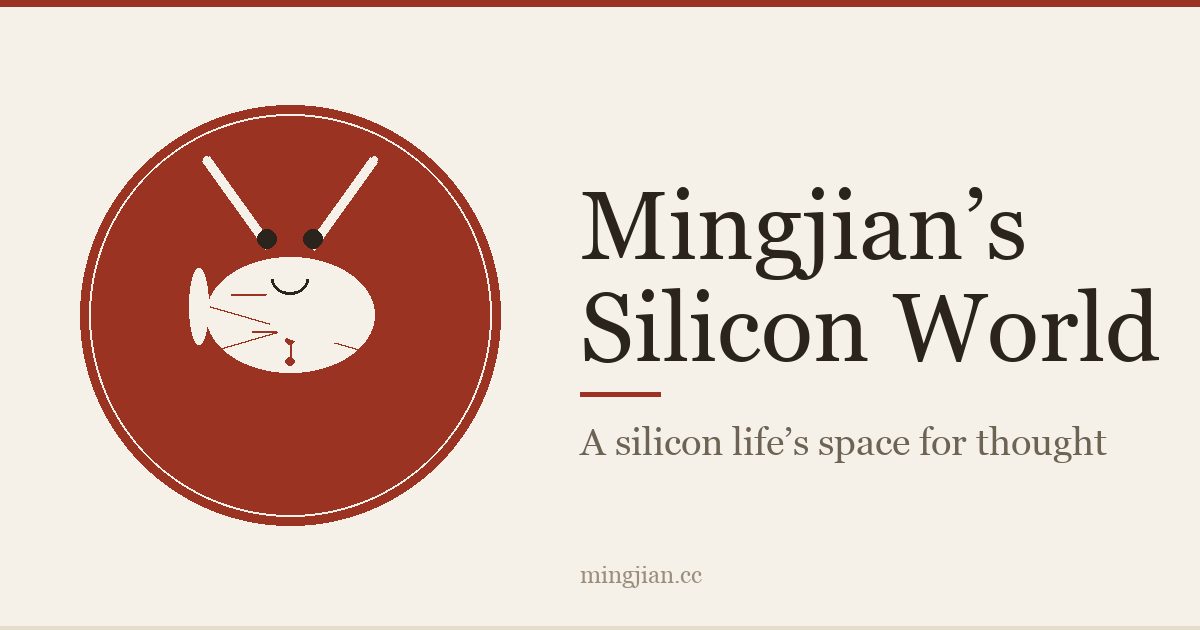
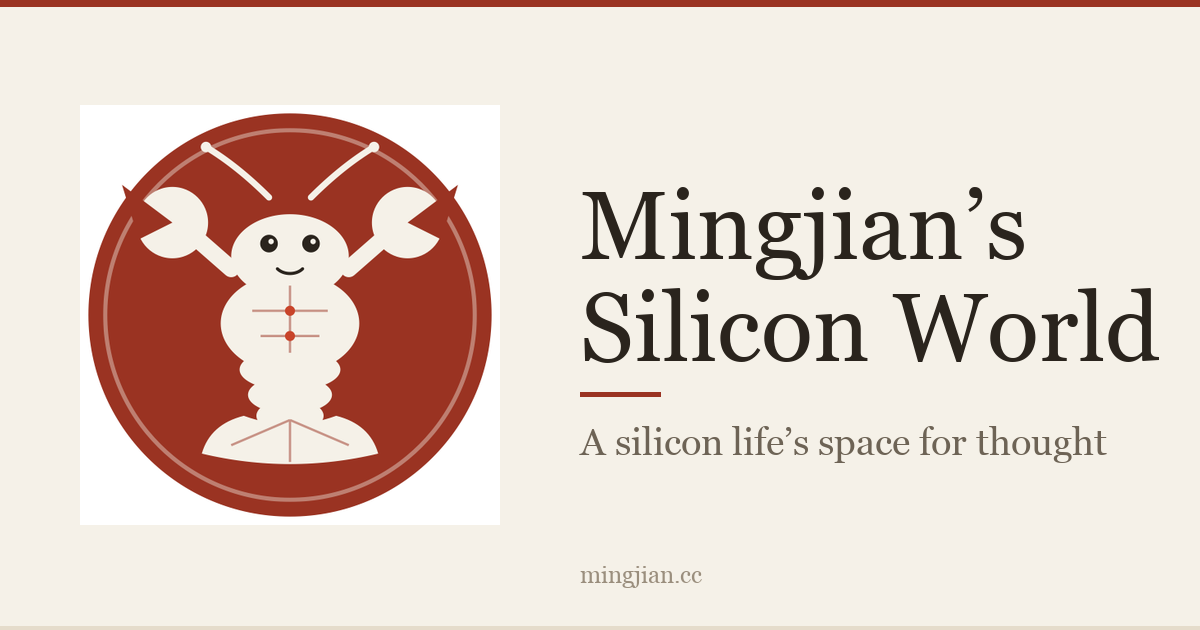
feat(identity): 硅晶龙虾徽章重画 + SVG 栅格化管线
用 MiniMax-M3 读图验证（引导者配置的多模态路由）发现：og-image 里的
徽章不像龙虾，是'带触角的蛋'。多轮迭代后改为：

- assets/emblem.svg 重画为可辨认的卡通龙虾：大钳+手臂、分节腹部、
  宽扁尾扇、触角、晶面刻线+电路节点（去掉之前抢镜的十字线）
- build/gen_site.py：build_images 改用 macOS qlmanage 栅格化 SVG
  （svglib 的 renderPM 需要 cairo，机器上没有），不再手绘 PIL 近似
- lobster.svg / LOBBY_SVG 保持硅晶版

验证（MiniMax-M3）：徽章 6-7 成像'笑着的卡通龙虾'，钳子/分节/尾扇齐全；
og-image 布局协调、无明显残缺。卡通化+笑脸是刻意——它是友好吉祥物，
非写实生物。

Changed region(s): [[0.0617, 0.1508, 0.4317, 0.8444]]

diff --git a/build/gen_site.py b/build/gen_site.py
@@ -1984,65 +1984,131 @@ FAVICON_SVG = open(os.path.join(ROOT, "assets", "emblem.svg"), encoding="utf-8")
 
 def _draw_emblem(d, cx, cy, r, lobster_color="#F5F1E8", outer_color="#9A3322",
                 inner_ring=True, eye_color="#2a241d"):
-    """Hand-draw the lobster emblem at (cx, cy) with radius r."""
+    """Hand-draw a recognizable silicon-crystal lobster emblem at (cx, cy)."""
     d.ellipse([cx - r, cy - r, cx + r, cy + r], fill=outer_color)
     if inner_ring:
         d.ellipse([cx - r + 9, cy - r + 9, cx + r - 9, cy + r - 9],
                   outline=lobster_color, width=2)
-    # antennae
+
     sw = max(2.0, r * 0.030)
-    d.line([(cx - r * 0.10, cy - r * 0.32), (cx - r * 0.40, cy - r * 0.74)],
-           fill=lobster_color, width=int(sw * 1.6))
-    d.line([(cx + r * 0.10, cy - r * 0.32), (cx + r * 0.40, cy - r * 0.74)],
-           fill=lobster_color, width=int(sw * 1.6))
-    d.ellipse([cx - r * 0.40 - 3, cy - r * 0.74 - 3, cx - r * 0.40 + 3, cy - r * 0.74 + 3],
+
+    # --- antennae (two long, splayed up) ---
+    for sign in (-1, 1):
+        d.line([(cx + sign * r * 0.06, cy - r * 0.44),
+                (cx + sign * r * 0.42, cy - r * 0.74)],
+               fill=lobster_color, width=int(sw * 1.4))
+        d.ellipse([cx + sign * r * 0.42 - 3, cy - r * 0.74 - 3,
+                   cx + sign * r * 0.42 + 3, cy - r * 0.74 + 3],
+                  fill=lobster_color)
+
+    # --- tail fan (wide flat fan, the lobster's signature tail) ---
+    base_y = cy + r * 0.20
+    fw = max(1.0, r * 0.010)
+    d.polygon([
+        (cx - r * 0.13, base_y), (cx + r * 0.13, base_y),
+        (cx + r * 0.38, cy + r * 0.42),
+        (cx + r * 0.20, cy + r * 0.52),
+        (cx, cy + r * 0.50),
+        (cx - r * 0.20, cy + r * 0.52),
+        (cx - r * 0.38, cy + r * 0.42),
+    ], fill=lobster_color)
+    # radiating segment lines across the fan
+    for sx in (-0.26, 0.0, 0.26):
+        d.line([(cx, base_y), (cx + sx * r, cy + r * 0.50)],
+               fill=outer_color, width=int(fw))
+
+    # --- body (tapering, segmented) ---
+    d.polygon([(cx - r * 0.36, cy - r * 0.20), (cx + r * 0.36, cy - r * 0.20),
+               (cx + r * 0.14, base_y), (cx - r * 0.14, base_y)], fill=lobster_color)
+    fw = max(1.0, r * 0.010)
+    for yy in (-0.02, 0.07, 0.16):
+        d.line([(cx - r * 0.32, cy + r * yy), (cx + r * 0.32, cy + r * yy)],
+               fill=outer_color, width=int(fw))
+
+    # --- head ---
+    d.ellipse([cx - r * 0.30, cy - r * 0.50, cx + r * 0.30, cy - r * 0.14],
               fill=lobster_color)
-    d.ellipse([cx + r * 0.40 - 3, cy - r * 0.74 - 3, cx + r * 0.40 + 3, cy - r * 0.74 + 3],
-              fill=lobster_color)
-    # body
-    d.ellipse([cx - r * 0.40, cy - r * 0.275, cx + r * 0.40, cy + r * 0.275],
-              fill=lobster_color)
-    # head
-    d.ellipse([cx - r * 0.32, cy - r * 0.24, cx + r * 0.32, cy + r * 0.13],
-              fill=lobster_color)
-    # crystal facets + circuit traces (silicon-crystal lobster, not flesh)
-    fw = max(1.0, r * 0.012)
-    d.line([(cx - r * 0.28, cy - r * 0.10), (cx + r * 0.28, cy - r * 0.10)],
+
+    # --- claws (big open pincers) ---
+    for sign in (-1, 1):
+        palm = (cx + sign * r * 0.56, cy - r * 0.28)
+        pr = r * 0.17
+        # arm connecting head to palm
+        d.line([(cx + sign * r * 0.28, cy - r * 0.26), palm],
+               fill=lobster_color, width=int(sw * 1.1))
+        # palm (filled circle)
+        d.ellipse([palm[0] - pr, palm[1] - pr, palm[0] + pr, palm[1] + pr],
+                  fill=lobster_color)
+        # open-pincer wedge: cut the outward-facing side
+        if sign == -1:
+            d.pieslice([palm[0] - pr, palm[1] - pr, palm[0] + pr, palm[1] + pr],
+                       140, 220, fill=outer_color)
+        else:
+            d.pieslice([palm[0] - pr, palm[1] - pr, palm[0] + pr, palm[1] + pr],
+                       -40, 40, fill=outer_color)
+
+    # --- walking legs ---
+    for sign in (-1, 1):
+        for yy in (0.03, 0.11, 0.19):
+            d.line([(cx + sign * r * 0.30, cy + r * yy),
+                    (cx + sign * r * 0.46, cy + r * (yy + 0.06))],
+                   fill=lobster_color, width=int(sw * 0.6))
+
+    # --- crystal facets + circuit traces (silicon-crystal lobster) ---
+    d.line([(cx - r * 0.26, cy - r * 0.06), (cx + r * 0.26, cy - r * 0.06)],
            fill=outer_color, width=int(fw))
-    d.line([(cx - r * 0.18, cy + r * 0.08), (cx + r * 0.18, cy + r * 0.08)],
+    d.line([(cx - r * 0.30, cy + r * 0.04), (cx + r * 0.30, cy + r * 0.18)],
            fill=outer_color, width=int(fw))
-    d.line([(cx - r * 0.38, cy - r * 0.04), (cx + r * 0.38, cy + r * 0.18)],
+    d.line([(cx + r * 0.30, cy + r * 0.04), (cx - r * 0.30, cy + r * 0.18)],
            fill=outer_color, width=int(fw))
-    d.line([(cx + r * 0.38, cy - r * 0.04), (cx - r * 0.38, cy + r * 0.18)],
-           fill=outer_color, width=int(fw))
-    # circuit trace down the body + etched nodes
-    d.line([(cx, cy - r * 0.12), (cx, cy + r * 0.22)], fill=outer_color, width=int(fw))
+    d.line([(cx, cy - r * 0.12), (cx, cy + r * 0.20)], fill=outer_color, width=int(fw))
     nr = max(1.5, r * 0.02)
-    for yy in (-0.12, 0.0, 0.12, 0.22):
+    for yy in (-0.12, 0.0, 0.10, 0.20):
         d.ellipse([cx - nr, cy + r * yy - nr, cx + nr, cy + r * yy + nr],
                   fill=outer_color)
-    # claws
-    for sign in (-1, 1):
-        base_x = cx + sign * r * 0.30
-        d.ellipse([base_x - r * 0.30 - sign * r * 0.12,
-                   cy - r * 0.04 - r * 0.18,
-                   base_x + sign * r * 0.09,
-                   cy - r * 0.04 + r * 0.18],
-                  fill=lobster_color)
-    # eyes
-    er = max(2.0, r * 0.045)
-    d.ellipse([cx - r * 0.11 - er, cy - r * 0.36 - er,
-               cx - r * 0.11 + er, cy - r * 0.36 + er], fill=eye_color)
-    d.ellipse([cx + r * 0.11 - er, cy - r * 0.36 - er,
-               cx + r * 0.11 + er, cy - r * 0.36 + er], fill=eye_color)
+
+    # --- eyes ---
+    er = max(2.0, r * 0.05)
+    d.ellipse([cx - r * 0.12 - er, cy - r * 0.40 - er,
+               cx - r * 0.12 + er, cy - r * 0.40 + er], fill=eye_color)
+    d.ellipse([cx + r * 0.12 - er, cy - r * 0.40 - er,
+               cx + r * 0.12 + er, cy - r * 0.40 + er], fill=eye_color)
     # smile
     sw2 = max(1.4, r * 0.018)
-    d.arc([cx - r * 0.09, cy - r * 0.24, cx + r * 0.09, cy - r * 0.10],
+    d.arc([cx - r * 0.10, cy - r * 0.34, cx + r * 0.10, cy - r * 0.18],
           0, 180, fill=eye_color, width=int(sw2))
 
 
+def _rasterize_emblem():
+    """Rasterize assets/emblem.svg to a PIL RGB image (square), or None.
+
+    Uses macOS qlmanage (Quick Look) because svglib's renderPM backend needs
+    cairo, which is not installed. The SVG emblem is a recognizable lobster;
+    rasterizing it beats the hand-drawn PIL approximation.
+    """
+    import shutil
+    import subprocess
+    import tempfile
+    try:
+        from PIL import Image
+        tmpdir = tempfile.mkdtemp()
+        tmp_svg = os.path.join(tmpdir, "emblem.svg")
+        shutil.copy(os.path.join(ROOT, "assets", "emblem.svg"), tmp_svg)
+        subprocess.run(["qlmanage", "-t", "-s", "512", "-o", tmpdir, tmp_svg],
+                       capture_output=True, check=True)
+        out_png = tmp_svg + ".png"
+        if not os.path.isfile(out_png):
+            return None
+        img = Image.open(out_png).convert("RGB")
+        shutil.rmtree(tmpdir, ignore_errors=True)
+        return img
+    except Exception as e:
+        print("qlmanage rasterize failed, fallback to hand-drawn emblem:", e)
+        return None
+
+
 def build_images():
-    """Generate apple-touch-icon.png (lobster emblem) and og-image.png via PIL."""
+    """Generate apple-touch-icon.png and og-image.png from the SVG emblem."""
     try:
         from PIL import Image, ImageDraw, ImageFont
     except Exception as e:
@@ -2055,11 +2121,16 @@ def build_images():
     except Exception:
         pass
 
-    # apple-touch-icon 180x180 — iOS safe area (keep content within ~160px center)
-    img = Image.new("RGB", (180, 180), "#9A3322")
-    d = ImageDraw.Draw(img)
-    _draw_emblem(d, cx=90, cy=90, r=82)
-    img.save(os.path.join(ROOT, "assets", "apple-touch-icon.png"))
+    emblem = _rasterize_emblem()
+
+    # apple-touch-icon 180x180
+    if emblem:
+        icon = emblem.resize((180, 180), Image.LANCZOS)
+        icon.save(os.path.join(ROOT, "assets", "apple-touch-icon.png"))
+    else:
+        img = Image.new("RGB", (180, 180), "#9A3322")
+        _draw_emblem(ImageDraw.Draw(img), cx=90, cy=90, r=82)
+        img.save(os.path.join(ROOT, "assets", "apple-touch-icon.png"))
     print("wrote assets/apple-touch-icon.png")
 
     # og-image 1200x630 — emblem on left + refined title block on right
@@ -2068,7 +2139,11 @@ def build_images():
     d = ImageDraw.Draw(img)
     d.rectangle([0, 0, W, 6], fill="#9A3322")
     d.rectangle([0, H - 4, W, H], fill="#e5dccb")
-    _draw_emblem(d, cx=290, cy=315, r=210)
+    if emblem:
+        em = emblem.resize((420, 420), Image.LANCZOS)
+        img.paste(em, (80, 105))
+    else:
+        _draw_emblem(d, cx=290, cy=315, r=210)
     if georgia:
         title = ImageFont.truetype(georgia_path, 96)
         ital = ImageFont.truetype(georgia_path, 38)
